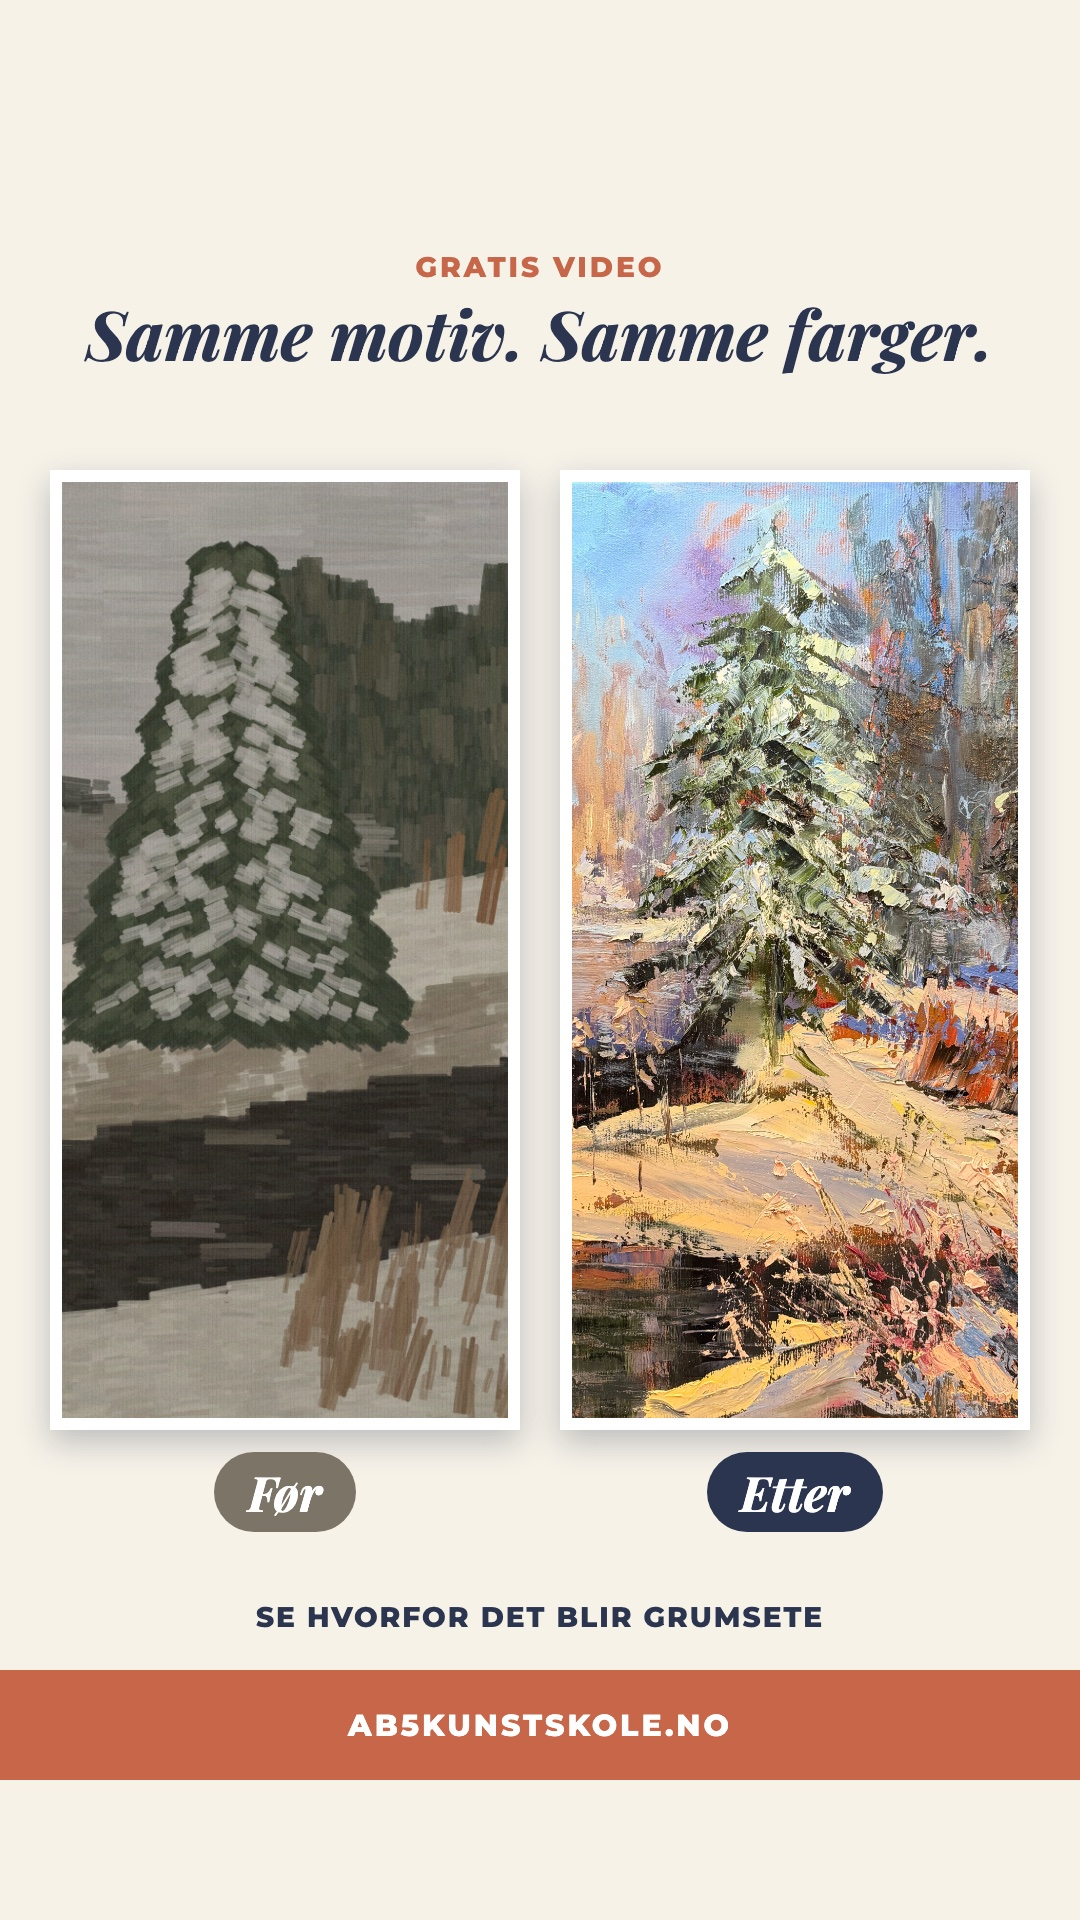
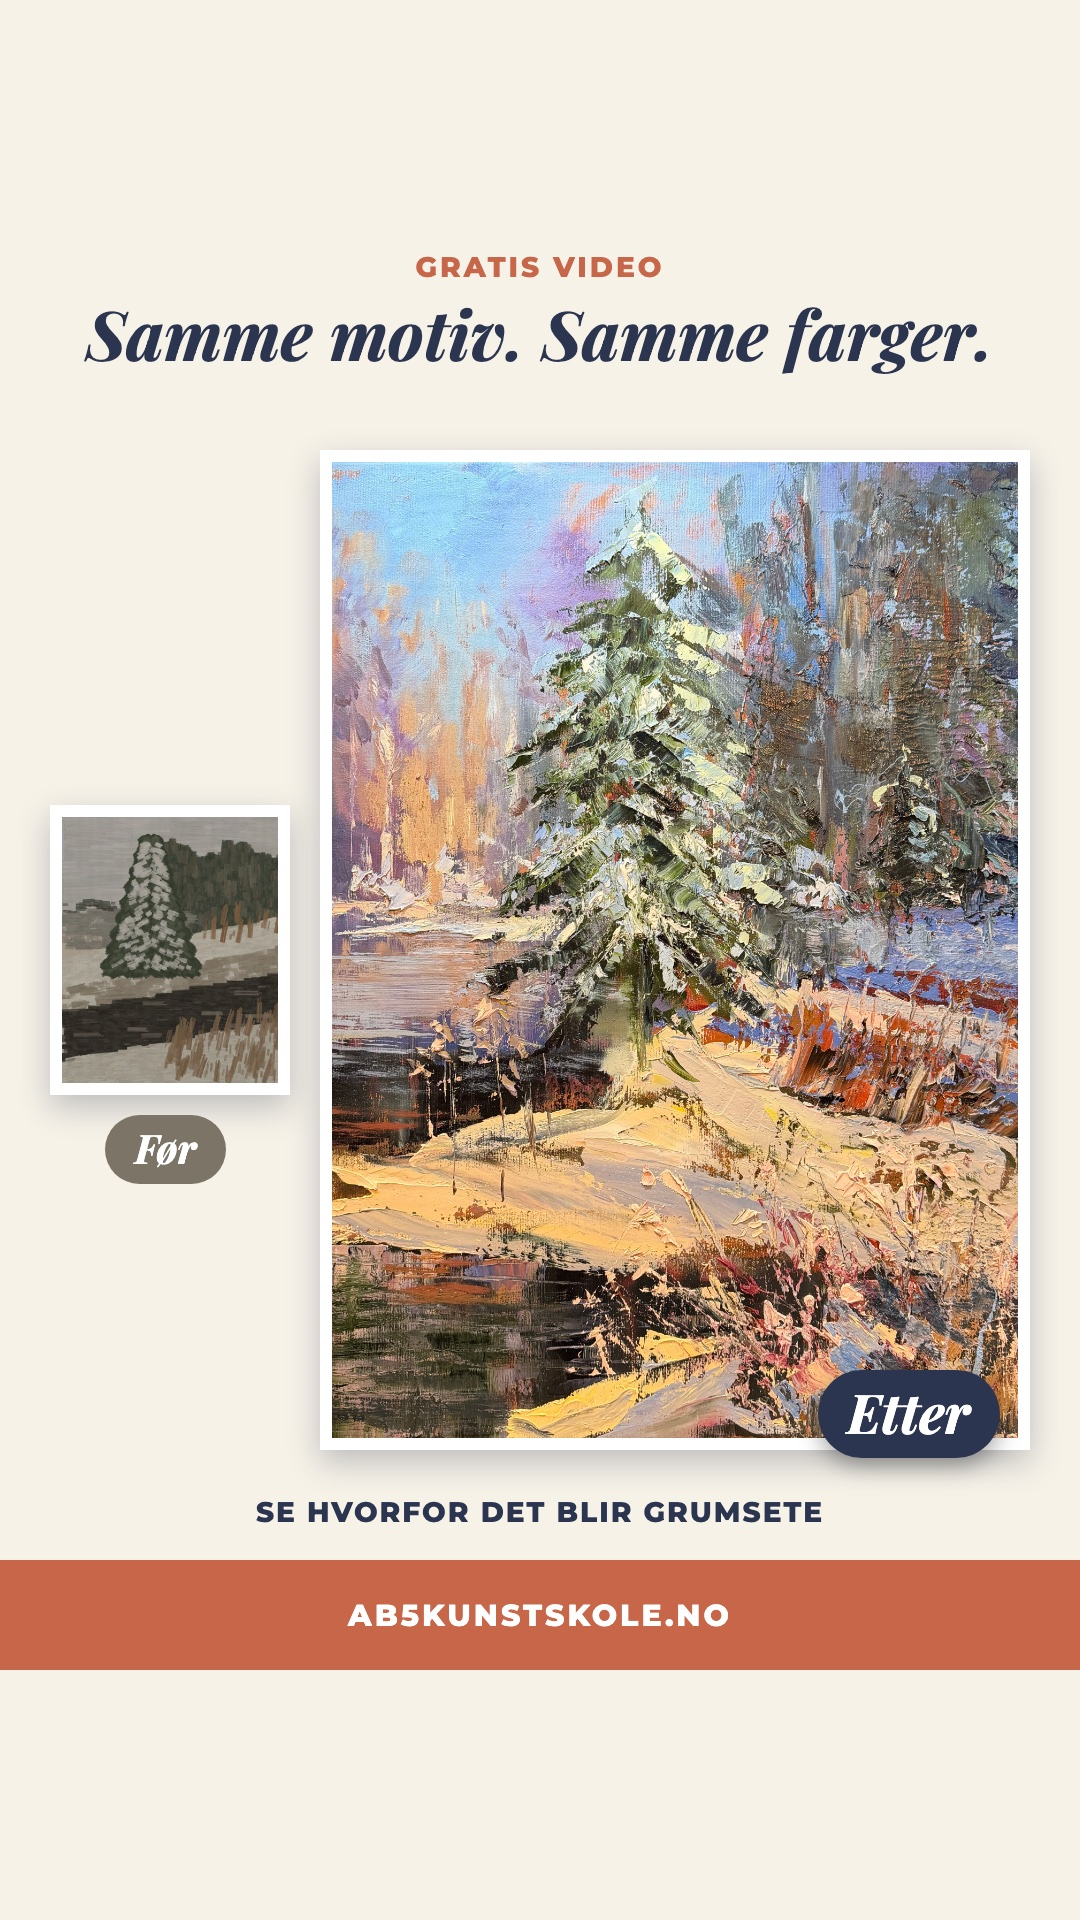
feat: drop P2, new P1b layout

diff --git a/index.html b/index.html
@@ -25,13 +25,13 @@ code{background:#ECE5D6;padding:1px 5px;border-radius:4px;font-size:14px;word-br
 hr{display:none}
 </style></head><body>
 <header><div class="wrap"><h1>Annonser, januar 2027</h1>
-<p>AB5 Kunstskole. Tre videoannonser og fire bildeannonser som sender folk til gratisvideoen, til godkjenning.</p>
-<nav><a href="#v1">V1</a><a href="#v2">V2</a><a href="#v3">V3</a><a href="#p1">P1</a><a href="#p1b">P1b</a><a href="#p2">P2</a><a href="#p3">P3</a></nav></div></header>
+<p>AB5 Kunstskole. Tre videoannonser og tre bildeannonser som sender folk til gratisvideoen, til godkjenning.</p>
+<nav><a href="#v1">V1</a><a href="#v2">V2</a><a href="#v3">V3</a><a href="#p1">P1</a><a href="#p1b">P1b</a><a href="#p3">P3</a></nav></div></header>
 <main><div class="wrap"><h1>Meta ads, January 2027 round: copy</h1>
-<p>Seven ads that send people to the free VSL (about 25 min). The ads sell the video, not the workshop: no price, no dates, no ticket.</p>
+<p>Six ads that send people to the free VSL (about 25 min). The ads sell the video, not the workshop: no price, no dates, no ticket.</p>
 <ul>
 <li>Videos follow the best freebie format from November ("Ad 1 – New Video", CPL 16.5): Agita talking straight to camera in the studio, paint tubes in hand, paintings behind her, 40–50 seconds, mostly one take. V1 adds two overhead palette shots. All three can be filmed in one session.</li>
-<li>Photos follow the two best image formats (P1b is a test variant of P1, P3 is student social proof in the P2 layout): the Før/Etter split ("Image 1 Before After", webinar) and the polaroid collage ("Image 2 – Du maler", direct sale).</li>
+<li>Photos follow the two best image formats (P1b is a test variant of P1, P3 is student social proof in the polaroid layout): the Før/Etter split ("Image 1 Before After", webinar) and the polaroid collage ("Image 2 – Du maler", direct sale).</li>
 <li>Every ad has 3 primary texts, 3 headlines and 3 descriptions (the short line under the headline in the feed).</li>
 <li>Button on every ad: <strong>Learn more</strong> ("Se mer"). Destination: the VSL page.</li>
 <li>Claims come from the VSL script (<code>copy/vsl-jan-2027/vsl-manus.md</code>). The warm/cold colour rule is not stated anywhere in the ads, because Agita has not confirmed it yet.</li>
@@ -294,7 +294,7 @@ hr{display:none}
 <li>Gratis video, ca. 25 min</li>
 </ol>
 <hr />
-<h2 id="p1">P1: Før/Etter split</h2>
+<h2 id="p1">P1: Før/Etter, photo and painting</h2>
 <div class="gallery"><a href="images/p1-for-etter-feed.jpg" target="_blank"><img class="ad" src="images/p1-for-etter-feed.jpg" alt="P1 feed"></a><a href="images/p1-for-etter-story.jpg" target="_blank"><img class="ad" src="images/p1-for-etter-story.jpg" alt="P1 story"></a></div>
 
 <p><strong>Format:</strong> two framed pictures side by side on a light background (the full-picture split blurred the difference on this busy painting). 4:5 feed and 9:16 story.
@@ -339,15 +339,16 @@ hr{display:none}
 <li>Fra foto til maleri som lever</li>
 </ol>
 <hr />
-<h2 id="p1b">P1b: Før/Etter split, muddy painting</h2>
+<h2 id="p1b">P1b: Før/Etter, weak painting and Agita's painting</h2>
 <div class="gallery"><a href="images/p1b-grumsete-feed.jpg" target="_blank"><img class="ad" src="images/p1b-grumsete-feed.jpg" alt="P1b feed"></a><a href="images/p1b-grumsete-story.jpg" target="_blank"><img class="ad" src="images/p1b-grumsete-story.jpg" alt="P1b story"></a></div>
 
-<p><strong>Format:</strong> same side-by-side layout as P1, but the Før picture is a weak hobby painting of the same scene instead of the photo. 4:5 feed and 9:16 story. Test against P1.
+<p><strong>Format:</strong> the Etter painting large and the Før painting small beside it (about a third of the width), so the result is the hero. 4:5 feed and 9:16 story. Test against P1.
 <strong>Audience:</strong> cold.</p>
 <h3>Image brief</h3>
 <ul>
-<li>Headline: <strong>Samme motiv. Samme farger.</strong></li>
-<li>Left frame: a drawn hobby painting of the same scene (<code>source/amateur-painting.png</code>): the layout follows the photo, but the sky is over-blended and dull, the forest is a flat dark wall as dark as the tree, the snow is grey-brown, the river is muddy and every brush mark has the same size. It is an illustration, not a real student painting. Right frame: Agita's painting.</li>
+<li>Headline: <strong>GRATIS VIDEO</strong> / <strong>Samme motiv. Samme farger.</strong></li>
+<li>Right, large: Agita's painting in a white frame, navy tag «Etter» on its lower right corner.</li>
+<li>Left, small (about a third of the width), vertically centred: a drawn hobby painting of the same scene (<code>source/amateur-painting.png</code>) with a grey tag «Før». The layout follows the photo, but the sky is over-blended and dull, the forest is a flat dark wall as dark as the tree, the snow is grey-brown, the river is muddy and every brush mark has the same size. It is an illustration, not a real student painting.</li>
 <li>Under: <strong>SE HVORFOR DET BLIR GRUMSETE</strong> and the <strong>AB5KUNSTSKOLE.NO</strong> bar.</li>
 </ul>
 <h3>Primary text</h3>
@@ -384,58 +385,10 @@ hr{display:none}
 <li>Det er ikke talent du mangler</li>
 </ol>
 <hr />
-<h2 id="p2">P2: Polaroid collage</h2>
-<div class="gallery"><a href="images/p2-polaroid-feed.jpg" target="_blank"><img class="ad" src="images/p2-polaroid-feed.jpg" alt="P2 feed"></a><a href="images/p2-polaroid-story.jpg" target="_blank"><img class="ad" src="images/p2-polaroid-story.jpg" alt="P2 story"></a></div>
-
-<p><strong>Format:</strong> same as the second version of "Image 2 – Du maler". 4:5 feed and 9:16 story.
-<strong>Audience:</strong> cold and retarget.</p>
-<h3>Image brief</h3>
-<ul>
-<li>Polaroid of the reference photo, labelled «Før», in the right panel under the text, so it does not cover the painting.</li>
-<li>Agita's painting on the easel (<code>painting-easel.jpg</code>), «etter» in a solid navy tag on the painting.</li>
-<li>Right side: vertical light panel with a paintbrush:</li>
-<li>Small caps: <strong>GRATIS VIDEO</strong></li>
-<li>Bold: <strong>SE HVORFOR FARGENE DINE BLIR GRUMSETE</strong></li>
-<li>Bottom: solid colour bar with <strong>AB5KUNSTSKOLE.NO</strong>.</li>
-</ul>
-<h3>Primary text</h3>
-<p><strong>1</strong> (the winning opening line)</p>
-<blockquote>
-<p>Du maler. Men resultatet blir aldri som du ser for deg.</p>
-<p>Bildet blir flatt. Fargene blir grumsete. Og så begynner du å tvile på deg selv.</p>
-<p>Det er ikke talent du mangler. I en gratis video viser Agita deg hvorfor det skjer, og de fem stegene hun bruker fra hvitt lerret til ferdig maleri.</p>
-<p>👉 Klikk her for å få tilgang med en gang</p>
-</blockquote>
-<p><strong>2</strong></p>
-<blockquote>
-<p>Du ser et vakkert bilde inne i hodet. Så blander du litt, legger til litt, og står igjen med noe brunt på paletten.</p>
-<p>Kjenner du deg igjen? Se Agitas gratis video, og se hva som skjer med egne øyne.</p>
-<p>👉 Klikk her for å få tilgang med en gang</p>
-</blockquote>
-<p><strong>3</strong></p>
-<blockquote>
-<p>Du maler. Men resultatet blir aldri som du ser for deg?</p>
-<p>Se hvorfor i en gratis video fra Agita.</p>
-<p>👉 Klikk her for å se videoen med en gang</p>
-</blockquote>
-<h3>Headlines</h3>
-<ol>
-<li>Overrask deg selv med hva du kan skape</li>
-<li>Det er enklere enn du tror</li>
-<li>Se hva som mangler</li>
-</ol>
-<h3>Descriptions</h3>
-<ol>
-<li>Gratis video, ca. 25 min</li>
-<li>Det er enklere enn du tror</li>
-<li>Se hvorfor det skjer</li>
-</ol>
-<hr />
-<hr />
 <h2 id="p3">P3: Student work (social proof)</h2>
 <div class="gallery"><a href="images/p3-elevarbeid-feed.jpg" target="_blank"><img class="ad" src="images/p3-elevarbeid-feed.jpg" alt="P3 feed"></a><a href="images/p3-elevarbeid-story.jpg" target="_blank"><img class="ad" src="images/p3-elevarbeid-story.jpg" alt="P3 story"></a></div>
 
-<p><strong>Format:</strong> the polaroid collage layout from P2, with Nina Fagereng's painting of the same scene as the main picture. 4:5 feed and 9:16 story.
+<p><strong>Format:</strong> the polaroid collage layout ("Image 2 – Du maler"), with Nina Fagereng's painting of the same scene as the main picture. 4:5 feed and 9:16 story.
 <strong>Audience:</strong> cold and retarget.</p>
 <h3>Image brief</h3>
 <ul>

diff --git a/build.py b/build.py
@@ -7,7 +7,7 @@ import markdown
 SRC = pathlib.Path.home() / "agita-project/copy/ads-jan-2027/ad-copy.md"
 md = SRC.read_text()
 
-imgs = {"P1": "p1-for-etter", "P1b": "p1b-grumsete", "P2": "p2-polaroid", "P3": "p3-elevarbeid"}
+imgs = {"P1": "p1-for-etter", "P1b": "p1b-grumsete", "P3": "p3-elevarbeid"}
 for key, stem in imgs.items():
     gallery = "".join(
         f'<a href="images/{stem}-{fmt}.jpg" target="_blank"><img class="ad" src="images/{stem}-{fmt}.jpg" alt="{key} {fmt}"></a>'
@@ -15,7 +15,7 @@ for key, stem in imgs.items():
     md = re.sub(rf"(## {key}:[^\n]*\n)", rf'\1\n<div class="gallery">{gallery}</div>\n\n', md)
 
 body = markdown.markdown(md, extensions=["tables"])
-sections = [("v1", "V1"), ("v2", "V2"), ("v3", "V3"), ("p1", "P1"), ("p1b", "P1b"), ("p2", "P2"), ("p3", "P3")]
+sections = [("v1", "V1"), ("v2", "V2"), ("v3", "V3"), ("p1", "P1"), ("p1b", "P1b"), ("p3", "P3")]
 for anchor, key in sections:
     body = body.replace(f"<h2>{key}:", f'<h2 id="{anchor}">{key}:', 1)
 nav = "".join(f'<a href="#{a}">{k}</a>' for a, k in sections)
@@ -47,7 +47,7 @@ code{{background:#ECE5D6;padding:1px 5px;border-radius:4px;font-size:14px;word-b
 hr{{display:none}}
 </style></head><body>
 <header><div class="wrap"><h1>Annonser, januar 2027</h1>
-<p>AB5 Kunstskole. Tre videoannonser og fire bildeannonser som sender folk til gratisvideoen, til godkjenning.</p>
+<p>AB5 Kunstskole. Tre videoannonser og tre bildeannonser som sender folk til gratisvideoen, til godkjenning.</p>
 <nav>{nav}</nav></div></header>
 <main><div class="wrap">{body}</div></main></body></html>"""
 pathlib.Path(__file__).with_name("index.html").write_text(page)
